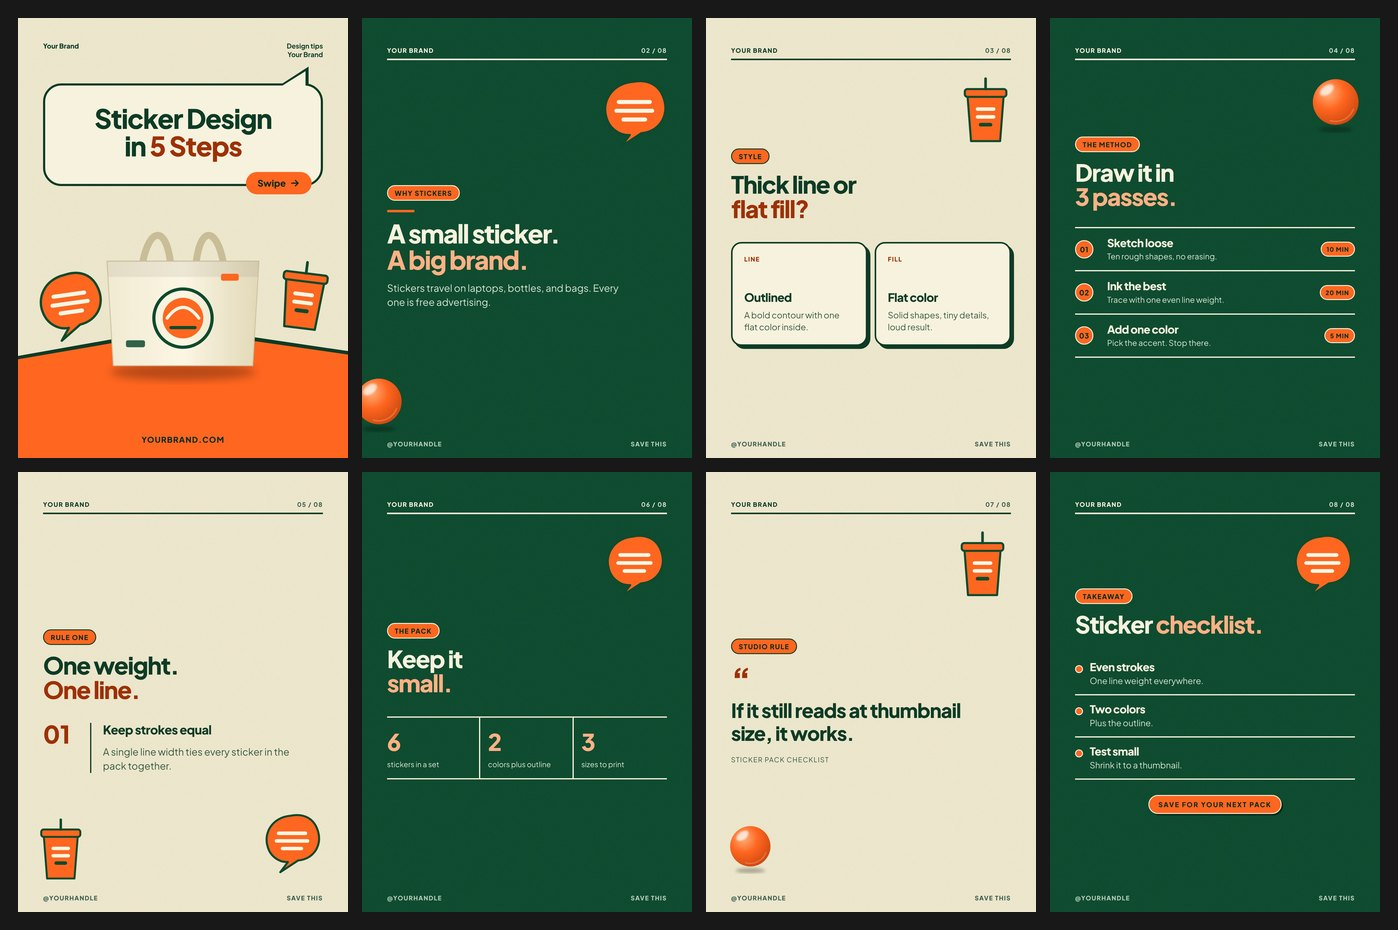
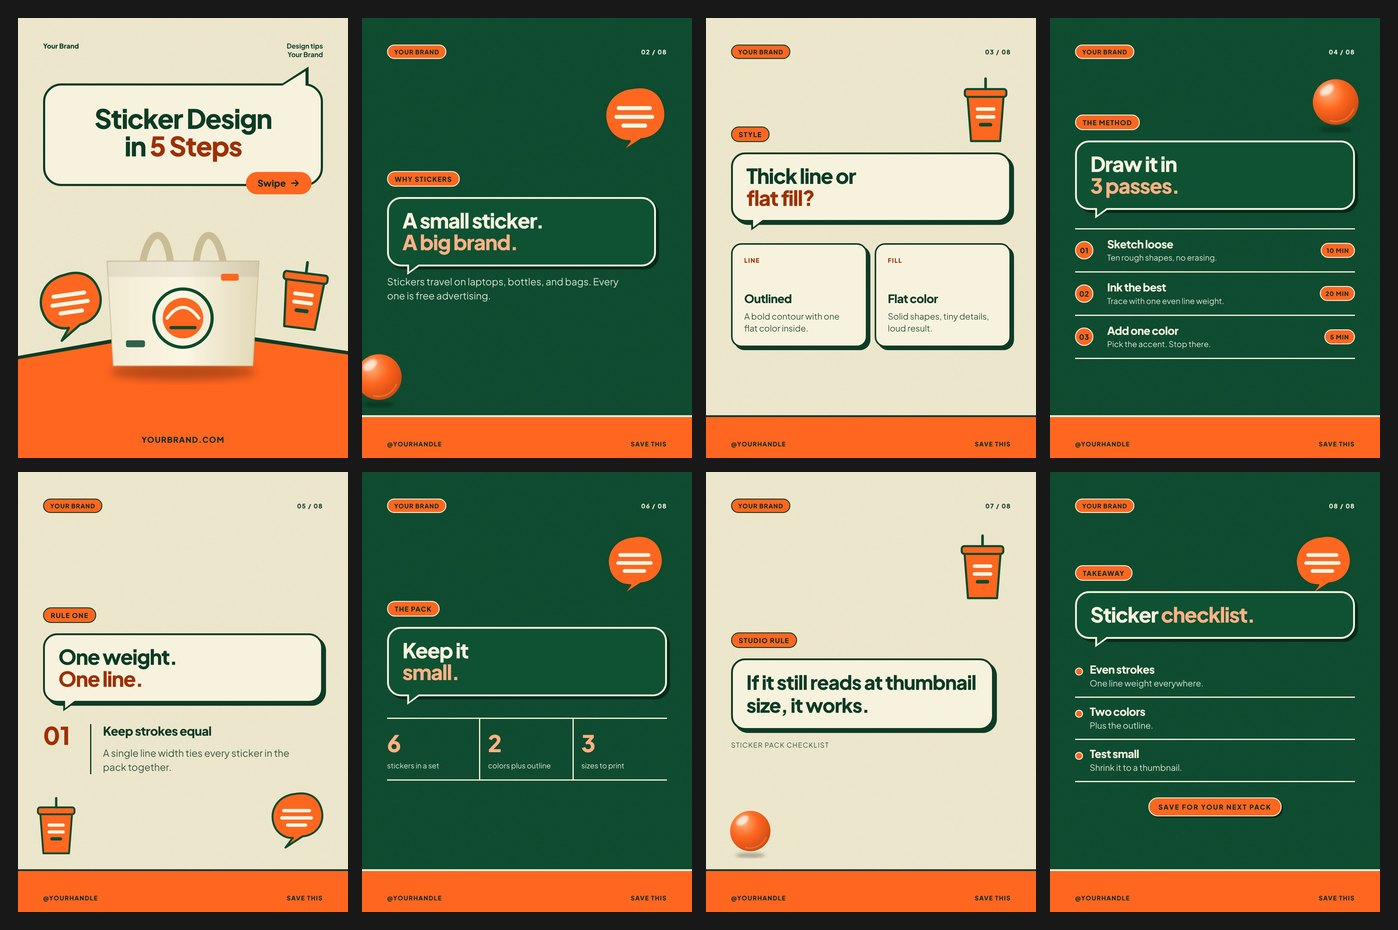
Template 08: headline bubbles and orange footer band on body slides
Makes Bubble Sticker clearly different from Poster Stack: every body slide now
puts the headline in an outlined speech bubble, the brand in a sticker pill, and
the footer on an orange ground band.

Claude-Session: https://claude.ai/code/session_01D7W7cVm7AXM5SnLqubMz6i

diff --git a/templates/08-bubble-sticker/tokens.css b/templates/08-bubble-sticker/tokens.css
@@ -44,9 +44,22 @@ h1,h2,h3{font-weight:800}
 h1{letter-spacing:-3px}
 h2{font-size:78px;letter-spacing:-3px;line-height:1.02}
 .kicker{align-self:flex-start;background:var(--hot);color:var(--on-hot);padding:9px 22px 8px;border-radius:999px;border:3px solid var(--out);letter-spacing:2px}
-.topbar{border-bottom:5px solid var(--out)}
-.topbar .b{font-weight:800}
-.footer{font-weight:800}
+/* body slides: headline lives in an outlined bubble, footer sits on an orange ground band */
+.slide:not(.p-bubble) .inner{inset:78px 82px 150px}
+.topbar{border-bottom:0;height:64px}
+.topbar .b{display:inline-block;padding:8px 20px;border-radius:999px;background:var(--hot);color:var(--on-hot);border:3px solid var(--out);font-weight:800;letter-spacing:1.5px}
+.topbar span:last-child{font-weight:800;color:var(--text)}
+.footer{font-weight:800;color:var(--on-hot);bottom:34px}
+.footer::before{content:"";position:absolute;left:-82px;right:-82px;bottom:-34px;height:134px;background:var(--hot);border-top:6px solid var(--out);z-index:-1}
+.content>h2,.content>.quote{position:relative;margin-top:34px;background:var(--panel);border:6px solid var(--out);border-radius:46px;
+  padding:34px 44px 38px;box-shadow:10px 10px 0 var(--ink)}
+.content>h2{font-size:68px;letter-spacing:-2.5px;line-height:1.05}
+.content>h2::after{content:"";position:absolute;left:60px;bottom:-34px;width:48px;height:34px;background:var(--out);clip-path:polygon(0 0,100% 0,0 100%)}
+.content>h2::before{content:"";position:absolute;left:66px;bottom:-24px;width:34px;height:26px;background:var(--panel);clip-path:polygon(0 0,100% 0,0 100%);z-index:1}
+.p-statement .rule{display:none}
+.p-statement .kicker{margin-bottom:0}
+.p-quote .quote{margin-top:34px;font-size:56px}
+.p-quote .quote-mark{display:none}
 .p-cards .card{border:5px solid var(--out);box-shadow:10px 10px 0 var(--ink);border-radius:34px;background:var(--panel)}
 .p-cards .card .index{color:var(--accent)}
 .p-mythfact .myth-grid{border:5px solid var(--out);box-shadow:10px 10px 0 var(--ink);border-radius:34px}
@@ -70,12 +83,12 @@ h2{font-size:78px;letter-spacing:-3px;line-height:1.02}
 
 /* decor on body slides */
 .slide::after{content:"";position:absolute;inset:0;z-index:1;pointer-events:none;background-repeat:no-repeat}
-.p-statement::after{background-image:url("decor/sticker-talk.svg"),url("decor/ball.svg");background-size:230px auto,170px auto;background-position:780px 180px,-30px 1170px}
+.p-statement::after{background-image:url("decor/sticker-talk.svg"),url("decor/ball.svg");background-size:230px auto,170px auto;background-position:780px 200px,-30px 1090px}
 .p-cards::after{background-image:url("decor/sticker-cup.svg");background-size:170px auto;background-position:830px 190px}
 .p-process::after{background-image:url("decor/ball.svg");background-size:170px auto;background-position:850px 190px}
-.p-concept::after{background-image:url("decor/sticker-cup.svg"),url("decor/sticker-talk.svg");background-size:160px auto,200px auto;background-position:60px 1130px,800px 1100px}
+.p-concept::after{background-image:url("decor/sticker-cup.svg"),url("decor/sticker-talk.svg");background-size:150px auto,190px auto;background-position:50px 1060px,820px 1030px}
 .p-stats::after{background-image:url("decor/sticker-talk.svg");background-size:210px auto;background-position:790px 185px}
-.p-quote::after{background-image:url("decor/sticker-cup.svg"),url("decor/ball.svg");background-size:170px auto,150px auto;background-position:820px 190px,70px 1150px}
+.p-quote::after{background-image:url("decor/sticker-cup.svg"),url("decor/ball.svg");background-size:170px auto,150px auto;background-position:820px 200px,70px 1100px}
 .p-takeaway::after{background-image:url("decor/sticker-talk.svg");background-size:210px auto;background-position:790px 185px}
 .p-bubble::after{display:none}
 
